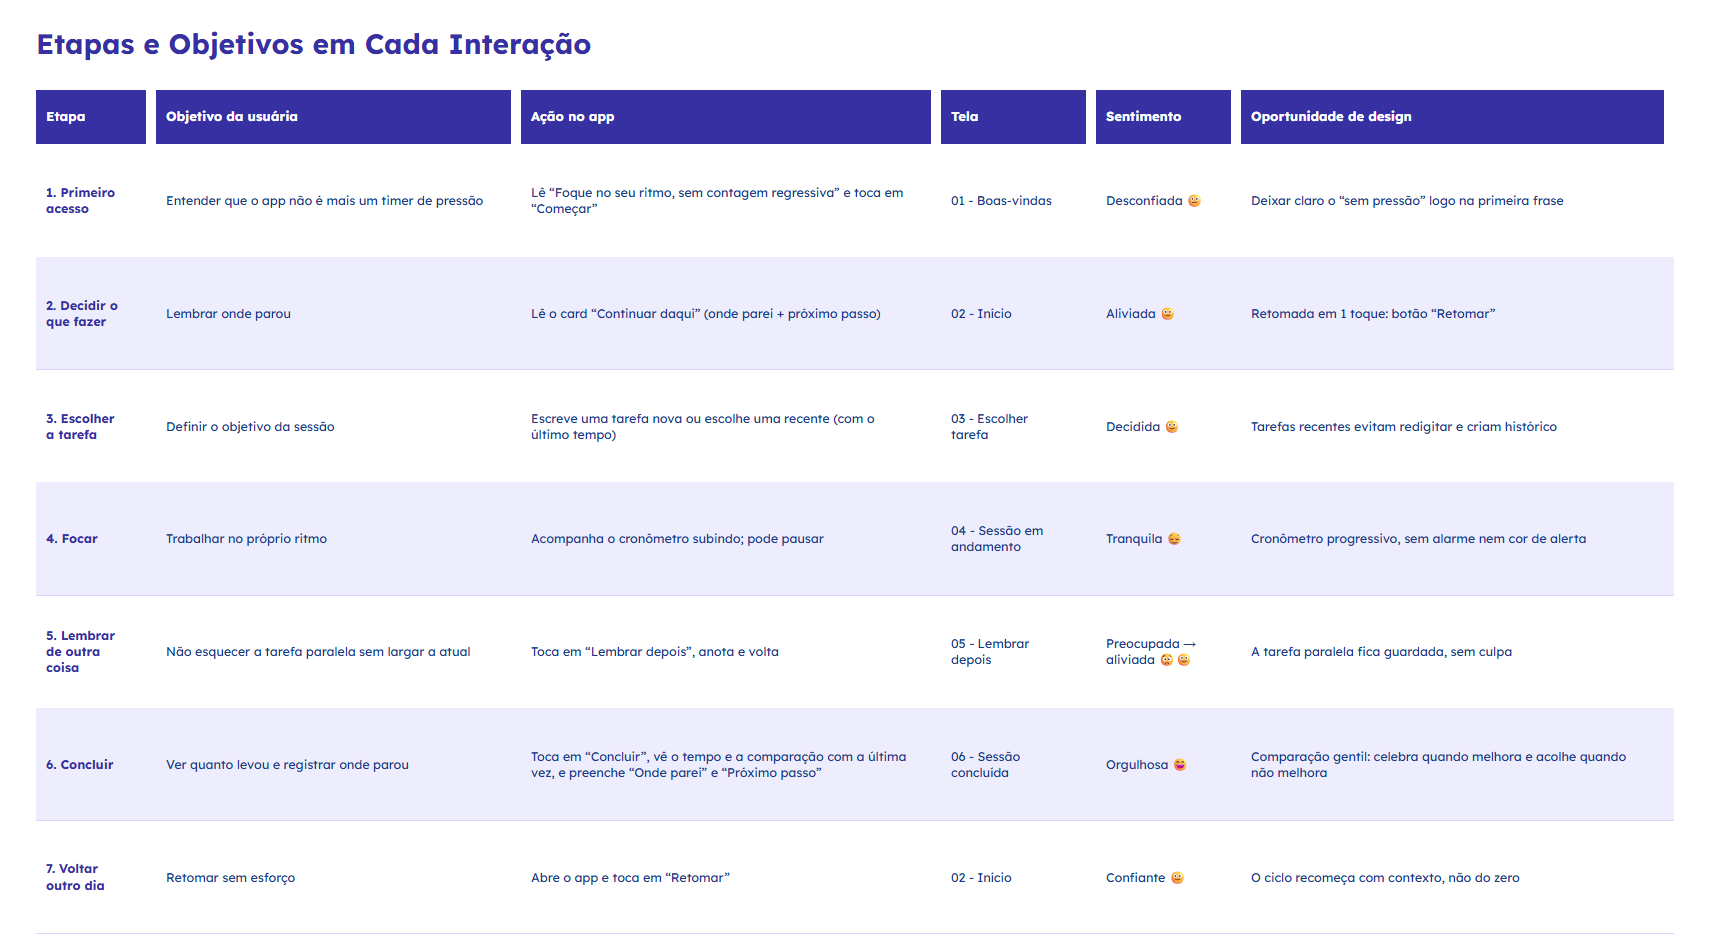
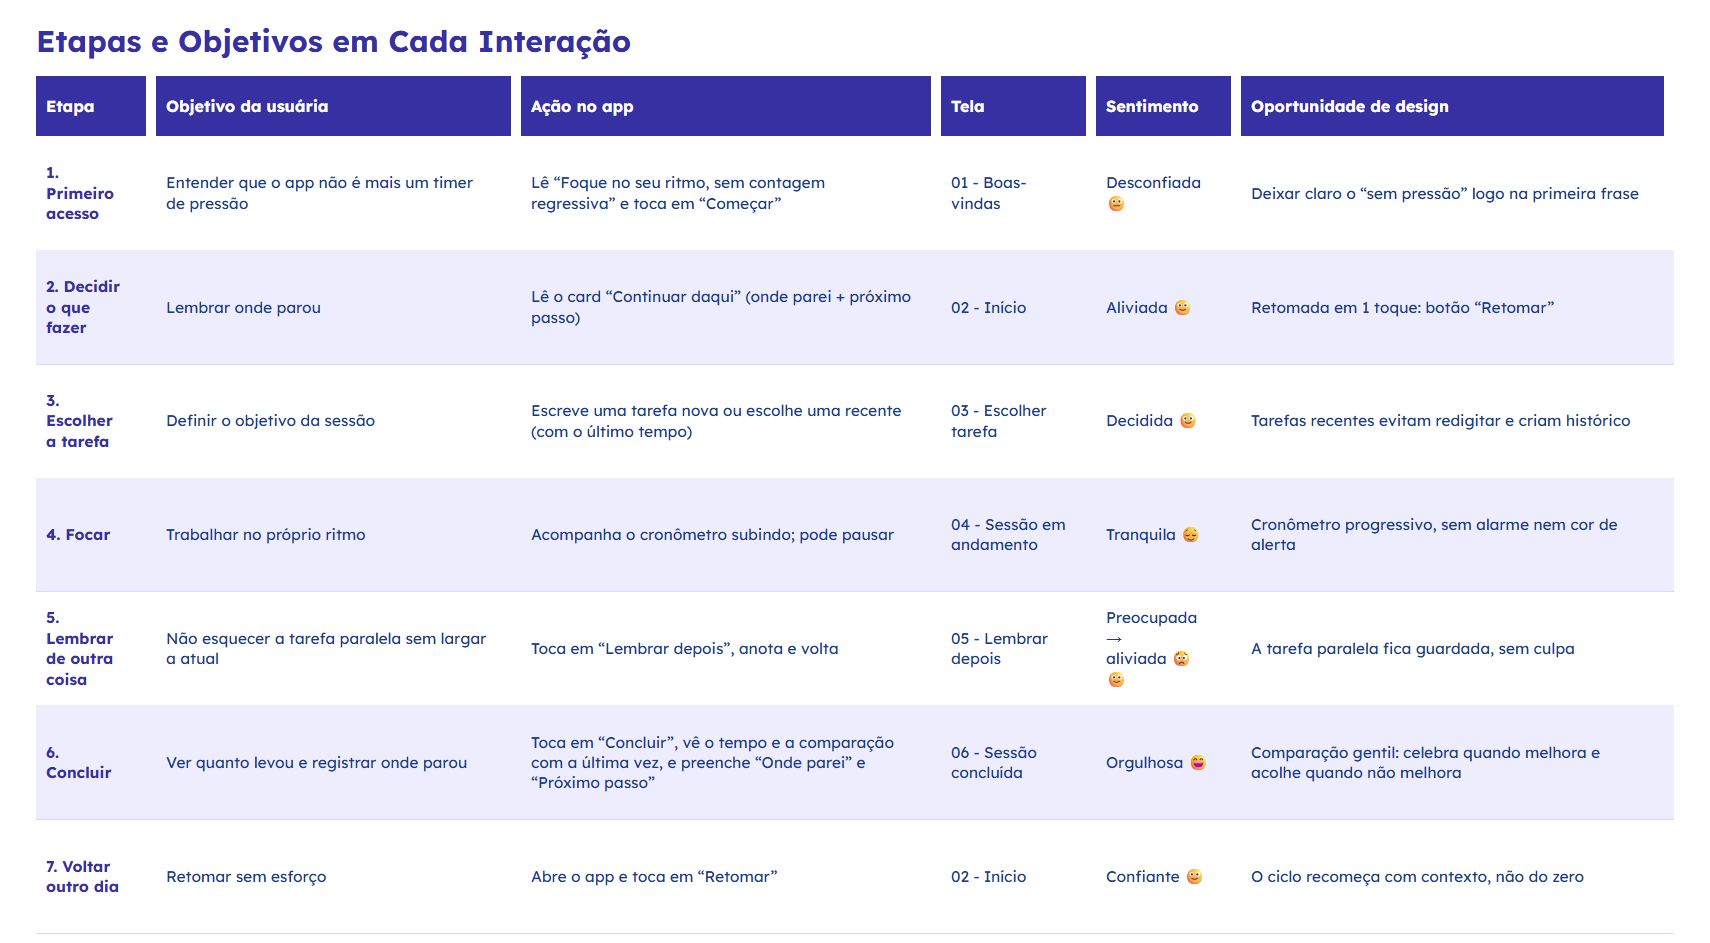
Aumenta tamanho do texto na imagem jornada-etapas-objetivos

diff --git a/video-editor/slides-src/jornada_etapas_tabela.py b/video-editor/slides-src/jornada_etapas_tabela.py
@@ -55,22 +55,22 @@ ROWS = [
 ]
 
 MARGIN = 36
-HEADER_TOP = 90
-HEADER_H = 54
+HEADER_TOP = 76
+HEADER_H = 60
 ROW_TOP0 = HEADER_TOP + HEADER_H
 ROW_H = (H - ROW_TOP0 - 10) / len(ROWS)
 CELL_PAD = 10
 
 body = ""
-body += f'''<div style="position:absolute; top:26px; left:{MARGIN}px; font-family:'Lexend'; font-weight:700;
-  font-size:28px; color:{INDIGO};">Etapas e Objetivos em Cada Interação</div>'''
+body += f'''<div style="position:absolute; top:22px; left:{MARGIN}px; font-family:'Lexend'; font-weight:700;
+  font-size:30px; color:{INDIGO};">Etapas e Objetivos em Cada Interação</div>'''
 
 # cabecalho
 x = MARGIN
 for label, w in COLS:
     body += f'''<div style="position:absolute; top:{HEADER_TOP}px; left:{x}px; width:{w - CELL_PAD}px; height:{HEADER_H}px;
       background:{INDIGO}; display:flex; align-items:center; padding:0 {CELL_PAD}px;
-      font-family:'Lexend'; font-weight:700; font-size:13px; color:#FFFFFF; line-height:1.2;">{label}</div>'''
+      font-family:'Lexend'; font-weight:700; font-size:16px; color:#FFFFFF; line-height:1.25;">{label}</div>'''
     x += w
 
 # linhas
@@ -85,7 +85,7 @@ for r, row in enumerate(ROWS):
         color = INDIGO if c == 0 else TEXTO
         body += f'''<div style="position:absolute; top:{top}px; left:{x}px; width:{w - CELL_PAD * 2}px; height:{ROW_H}px;
           display:flex; align-items:center; padding:0 {CELL_PAD}px;
-          font-family:'Lexend'; font-weight:{weight}; font-size:12.5px; color:{color}; line-height:1.3;">{text}</div>'''
+          font-family:'Lexend'; font-weight:{weight}; font-size:15.5px; color:{color}; line-height:1.32;">{text}</div>'''
         x += w
     body += f'<div style="position:absolute; top:{top + ROW_H}px; left:{MARGIN}px; width:{sum(w for _, w in COLS)}px; height:1px; background:#D9D6FF;"></div>'
 
